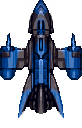
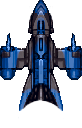
Add shader effect for jets in cruiser sprite.

Changed region(s): [[0.2195, 0.75, 0.7805, 0.9375]]

diff --git a/src/Entity/ISpriteOwner.h b/src/Entity/ISpriteOwner.h
@@ -1,5 +1,6 @@
 #pragma once
 #include <SFML\\Graphics.hpp>
+#include <iostream>
 
 namespace Cosmo
 {
@@ -10,6 +11,7 @@ namespace Cosmo
 		public:
 			ISpriteOwner(const sf::Texture& texture, const sf::Vector2f& pos)
 			{
+			    shader = nullptr;
 				sprite.setTexture(texture);
 				sprite.setOrigin(sprite.getLocalBounds().width / 2, sprite.getLocalBounds().height / 2);
 				sprite.setPosition(pos);
@@ -17,6 +19,7 @@ namespace Cosmo
 
 			virtual void draw(sf::RenderTarget &wnd, sf::RenderStates states) const override
 			{
+				if (shader) states.shader = shader;
 				wnd.draw(sprite, states);
 			}
 
@@ -27,6 +30,7 @@ namespace Cosmo
 
 		protected:
 			sf::Sprite sprite;
+            sf::Shader* shader;
 		};
 	}
 }

diff --git a/src/Entity/Cruiser.h b/src/Entity/Cruiser.h
@@ -13,7 +13,13 @@ namespace Cosmo
                     Starship{vec, box.starshipBox},
                     leftGun{box.leftWeapon, true},
                     rightGun{box.rightWeapon, true}
-			{}
+			{
+                if (cruiserShader.loadFromFile("water.frag", sf::Shader::Fragment))
+                {
+                    shader = &cruiserShader;
+                }
+
+			}
 
 			virtual ~ Cruiser() override {}
 
@@ -31,6 +37,7 @@ namespace Cosmo
 
 	    private:
 	        Utils::DirectedWeapon leftGun, rightGun;
+	        sf::Shader cruiserShader;
 		};
 	}
 }

diff --git a/src/Entity/Cruiser.cpp b/src/Entity/Cruiser.cpp
@@ -28,4 +28,7 @@ void Cosmo::Entity::Cruiser::Update(sf::Time dt)
 {
 	leftGun.Update(dt);
 	rightGun.Update(dt);
+
+	static sf::Clock clock;
+	cruiserShader.setUniform("time", clock.getElapsedTime().asSeconds());
 }
